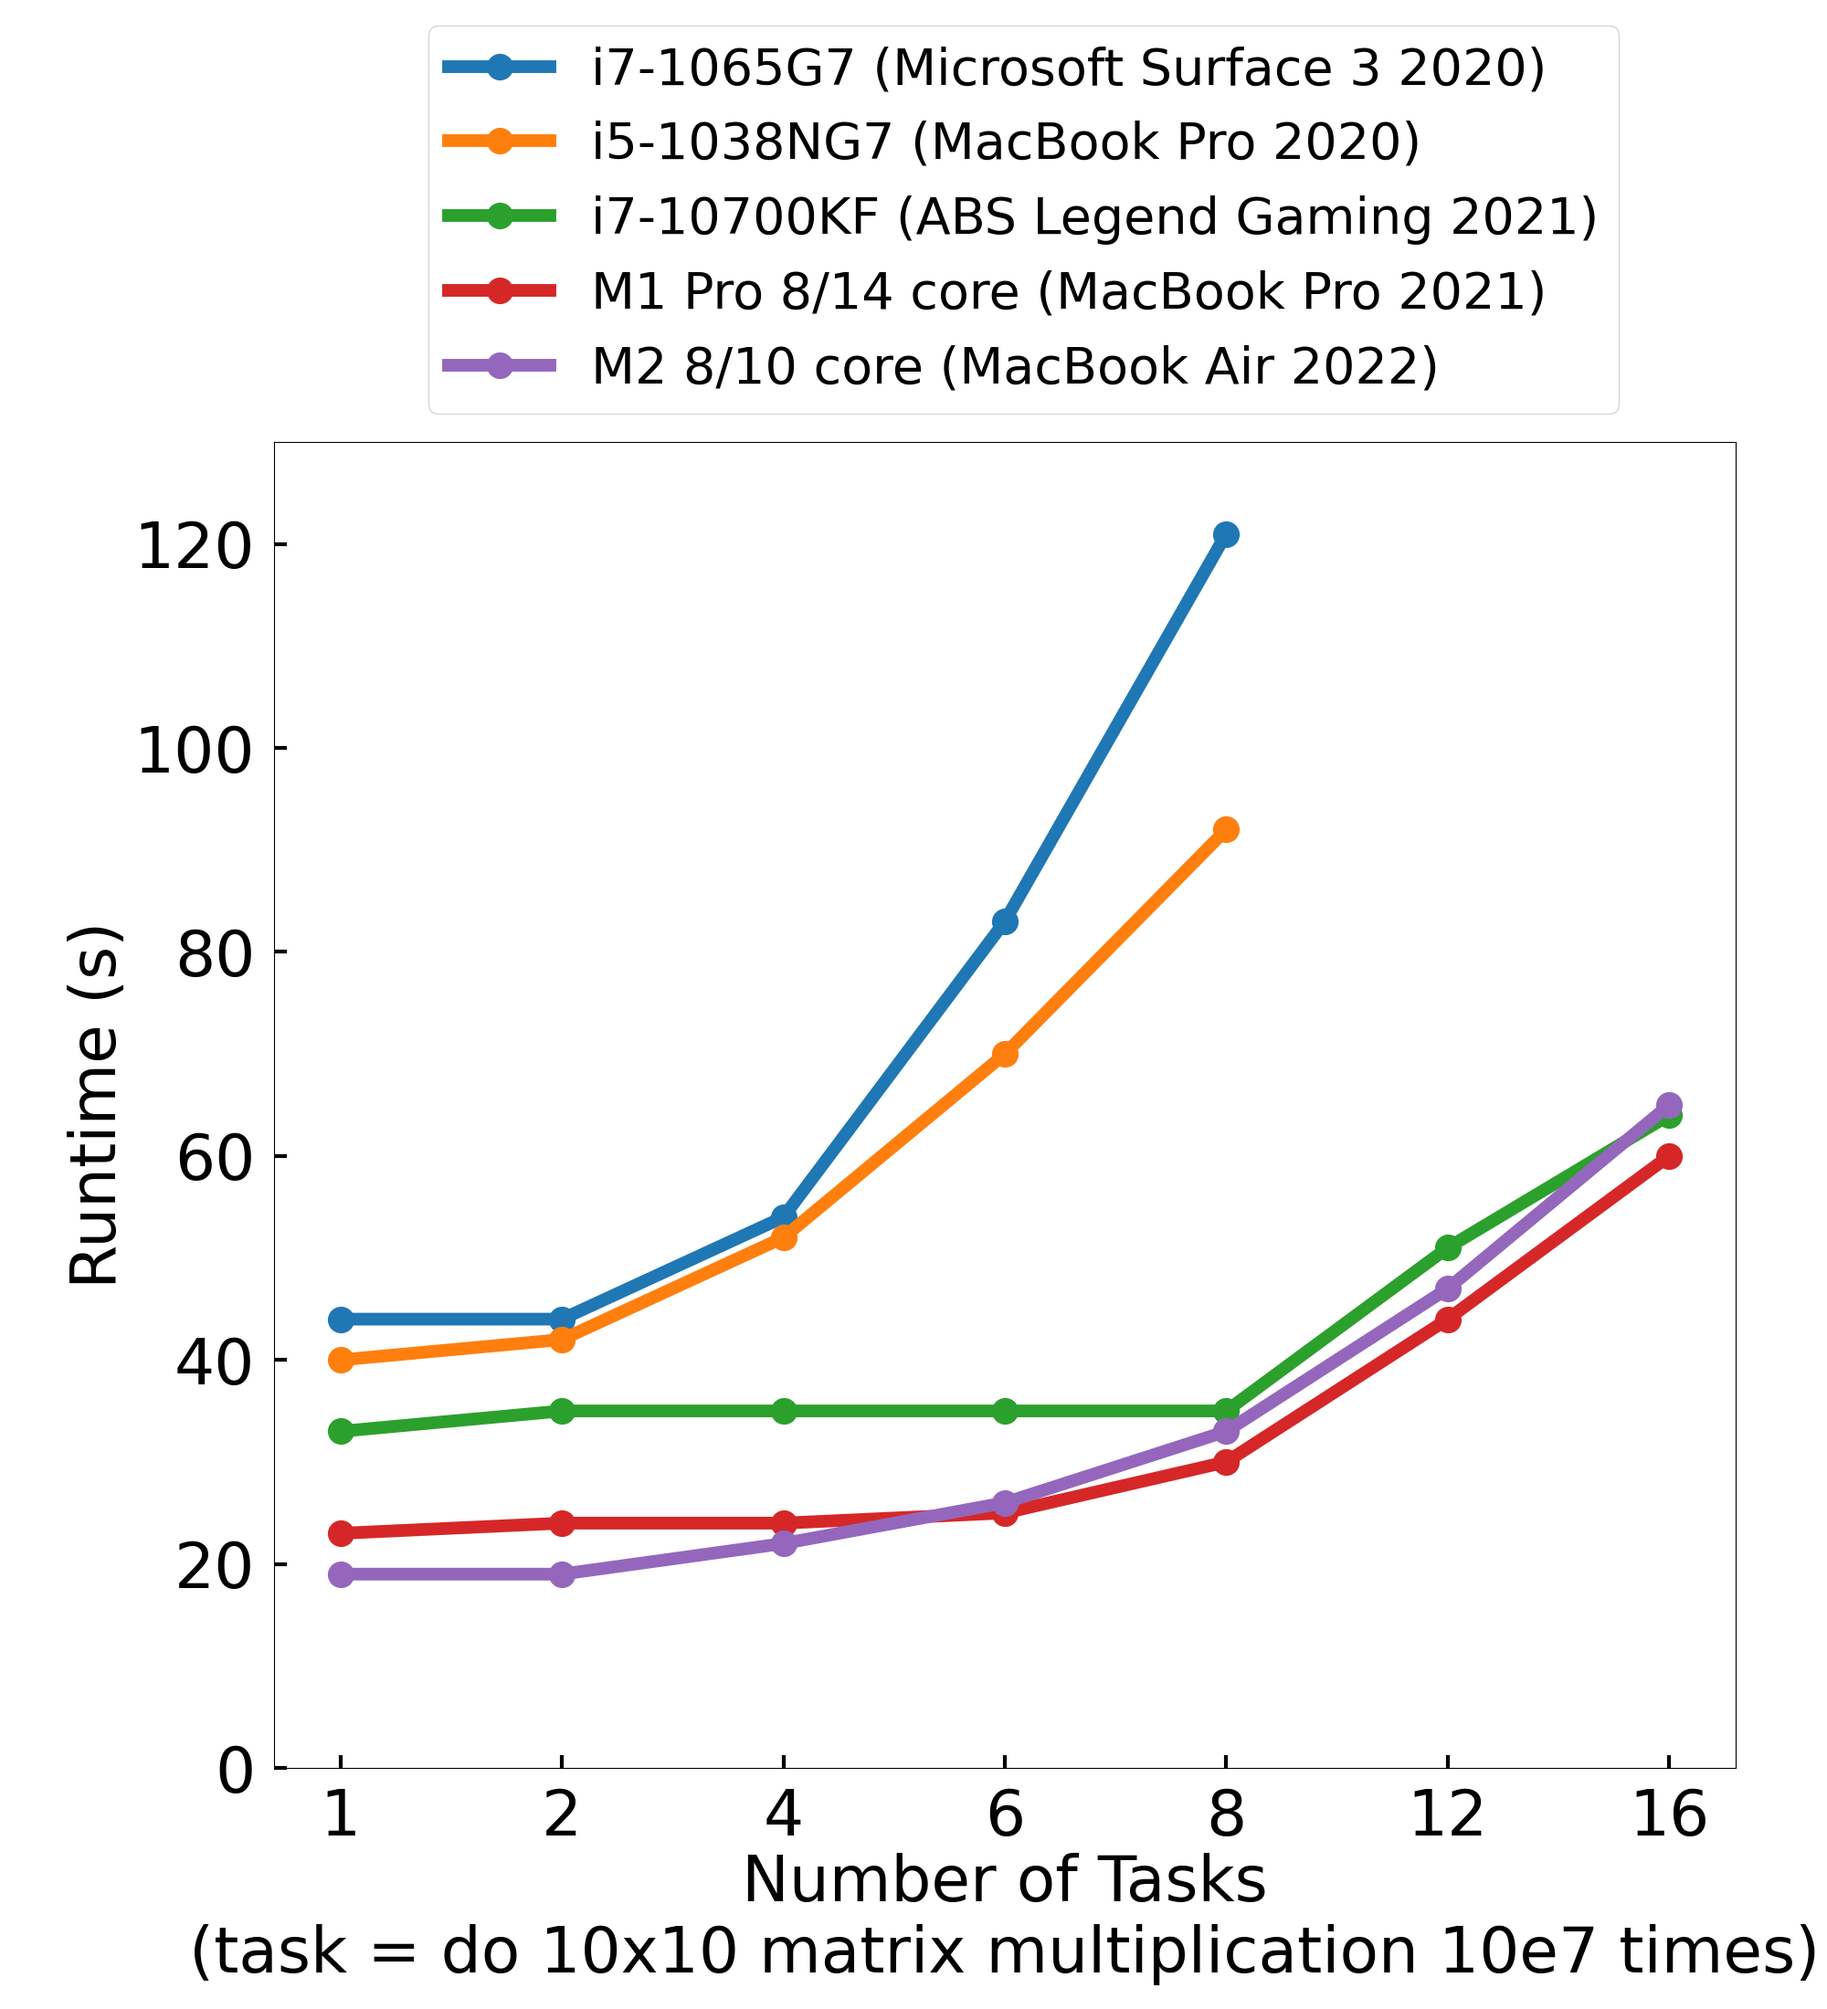
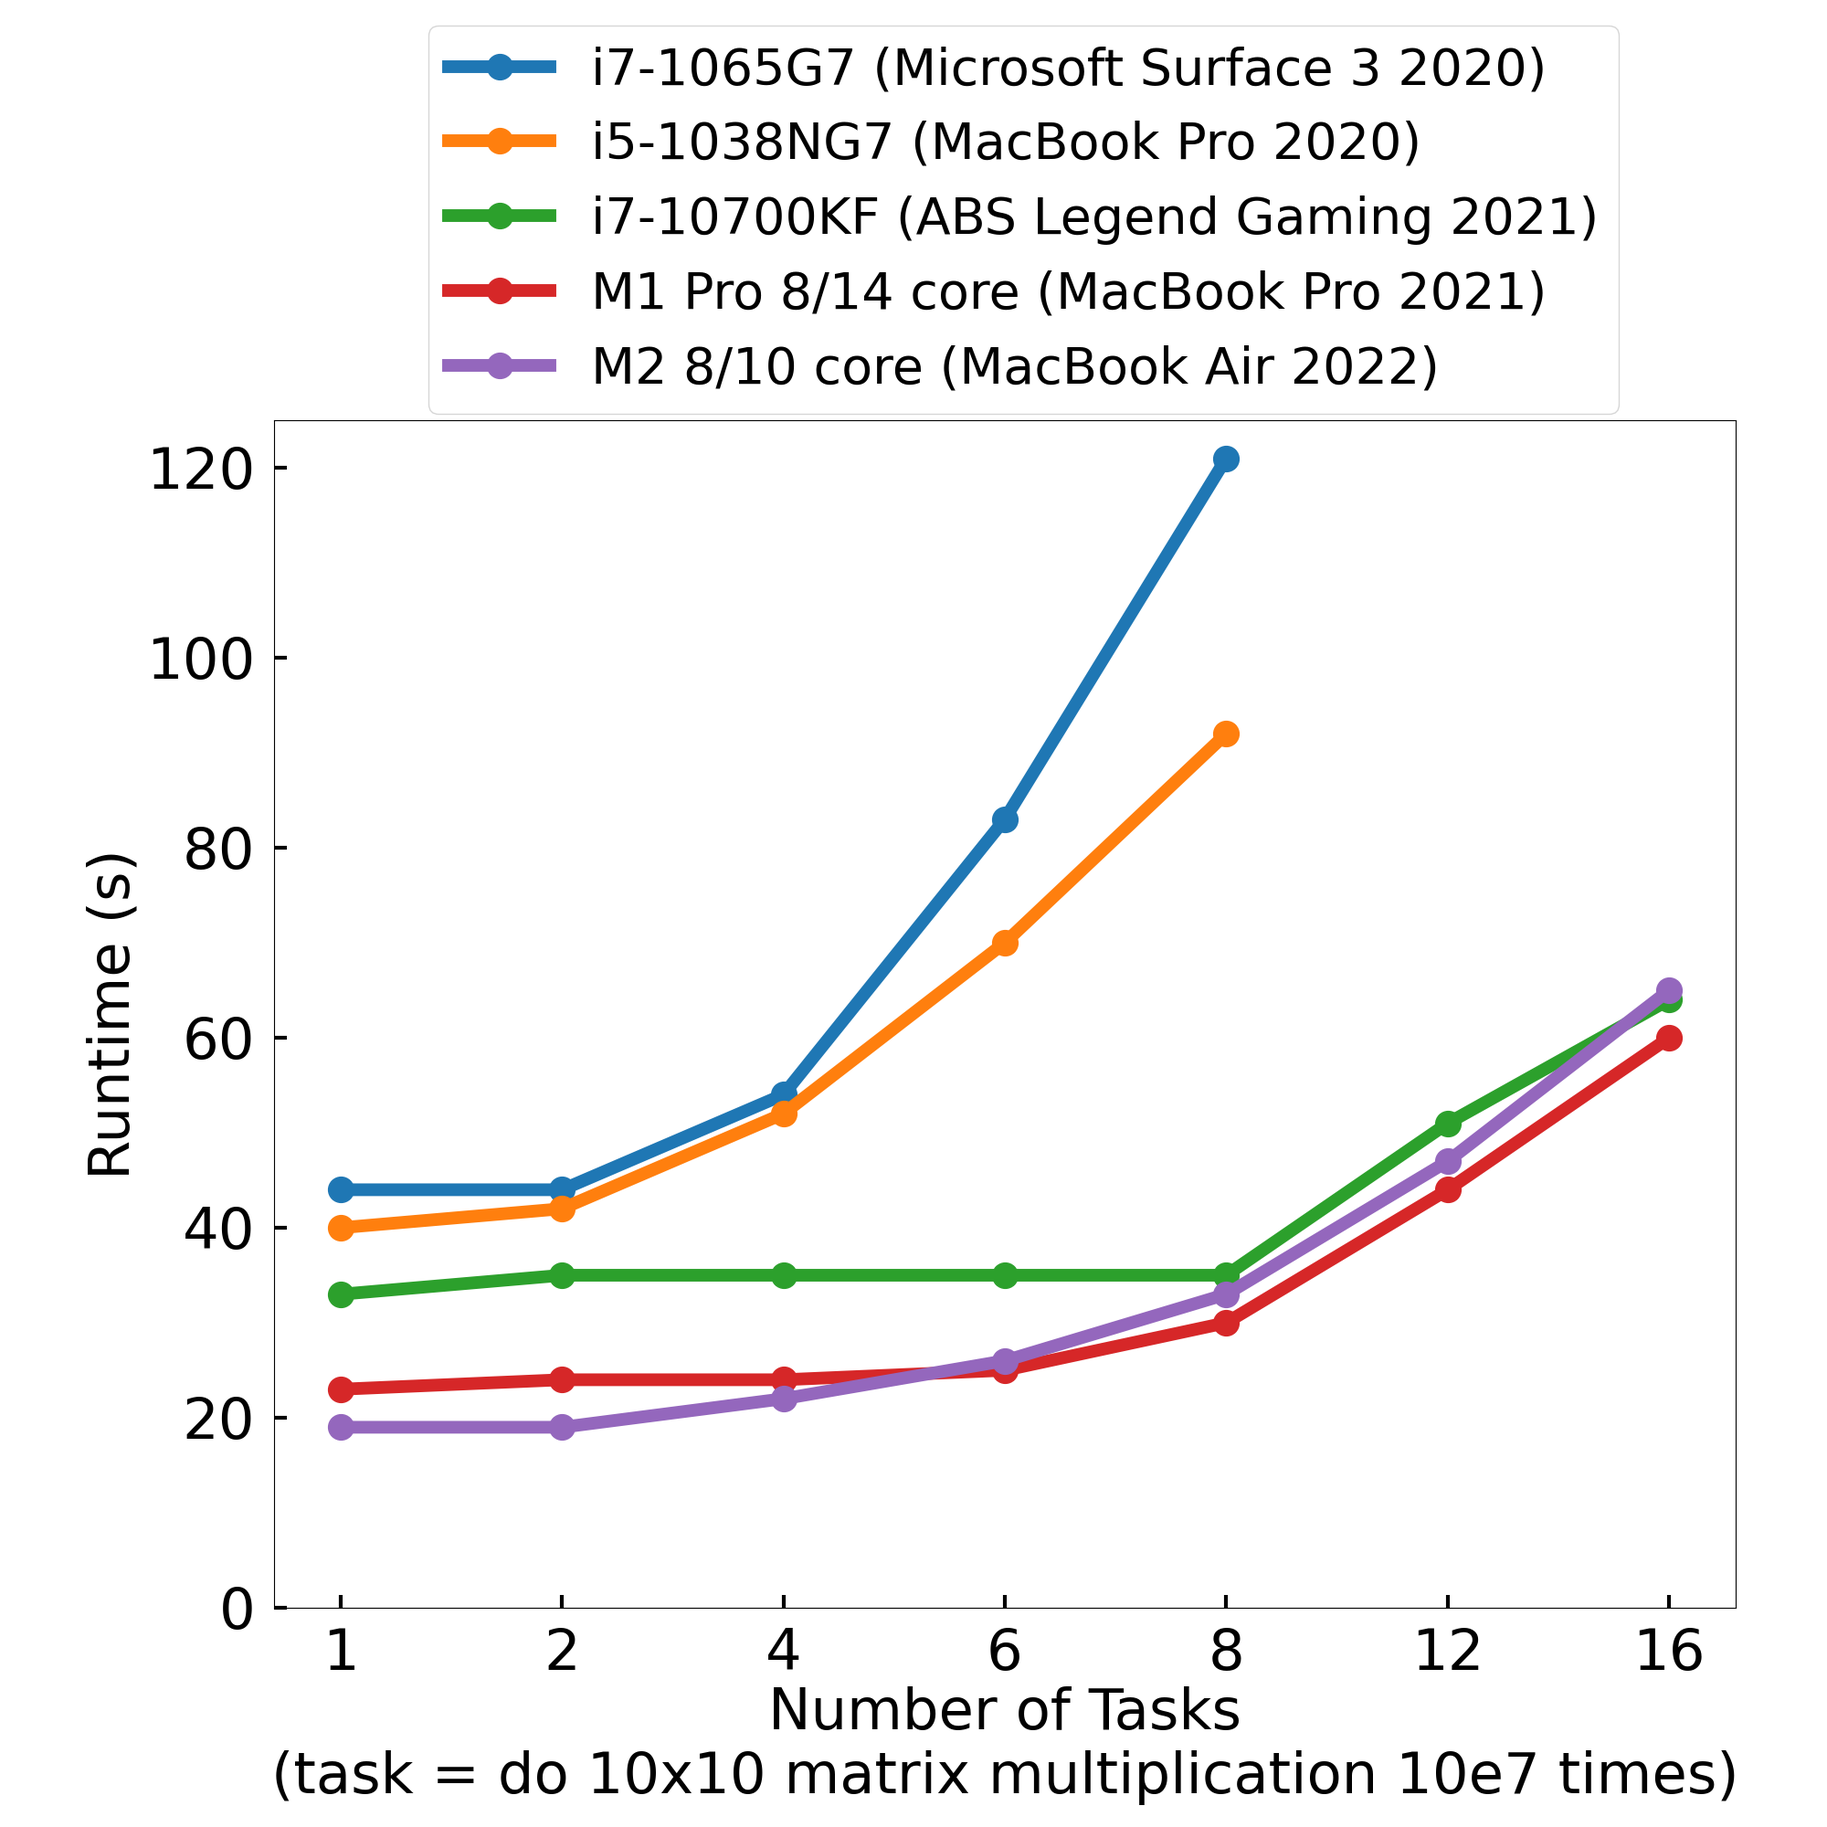
minor

diff --git a/plot.py b/plot.py
@@ -9,7 +9,7 @@ def plot():
     y4 = [23, 24, 24, 25, 30, 44, 60]  # M1 Pro (6 + 2)
     y5 = [19, 19, 22, 26, 33, 47, 65]  # M2 (4 + 4)
 
-    plt.rcParams['font.size'] = 50
+    plt.rcParams['font.size'] = 45
     plt.rcParams['lines.linewidth'] = 10
     # fig, ax = plt.subplots(1, 1, figsize=(20, 18))
     # fig.subplots_adjust(left=0.15, right=0.98, top=0.85, bottom=0.12)
@@ -18,8 +18,8 @@ def plot():
     # ax.plot(np.arange(len(y3)), y3, marker='o', markersize=20, label='i7-10700KF')
     # ax.plot(np.arange(len(y4)), y4, marker='o', markersize=20, label='M1 Pro (6 + 2)')
     # fig.legend(ncol=2, fontsize=50, bbox_to_anchor=(0.95, 1))
-    fig, ax = plt.subplots(1, 1, figsize=(20, 22))
-    fig.subplots_adjust(left=0.15, right=0.95, top=0.78, bottom=0.12)
+    fig, ax = plt.subplots(1, 1, figsize=(20, 20))
+    fig.subplots_adjust(left=0.15, right=0.95, top=0.77, bottom=0.12)
     ax.plot(np.arange(len(y2)), y2, marker='o', markersize=20, label='i7-1065G7 (Microsoft Surface 3 2020)')
     ax.plot(np.arange(len(y1)), y1, marker='o', markersize=20, label='i5-1038NG7 (MacBook Pro 2020)')
     ax.plot(np.arange(len(y3)), y3, marker='o', markersize=20, label='i7-10700KF (ABS Legend Gaming 2021)')
@@ -30,7 +30,7 @@ def plot():
     ax.set_xticklabels([str(x) for x in X])
     ax.set_xlabel('Number of Tasks\n(task = do 10x10 matrix multiplication 10e7 times)')
     ax.set_ylabel('Runtime (s)')
-    ax.set_ylim([0, 130])
+    ax.set_ylim([0, 125])
     ax.tick_params(axis='x', direction='in', length=10, width=3, pad=15)
     ax.tick_params(axis='y', direction='in', length=10, width=3, pad=15)
     fig.savefig('cpu_perf.png')
